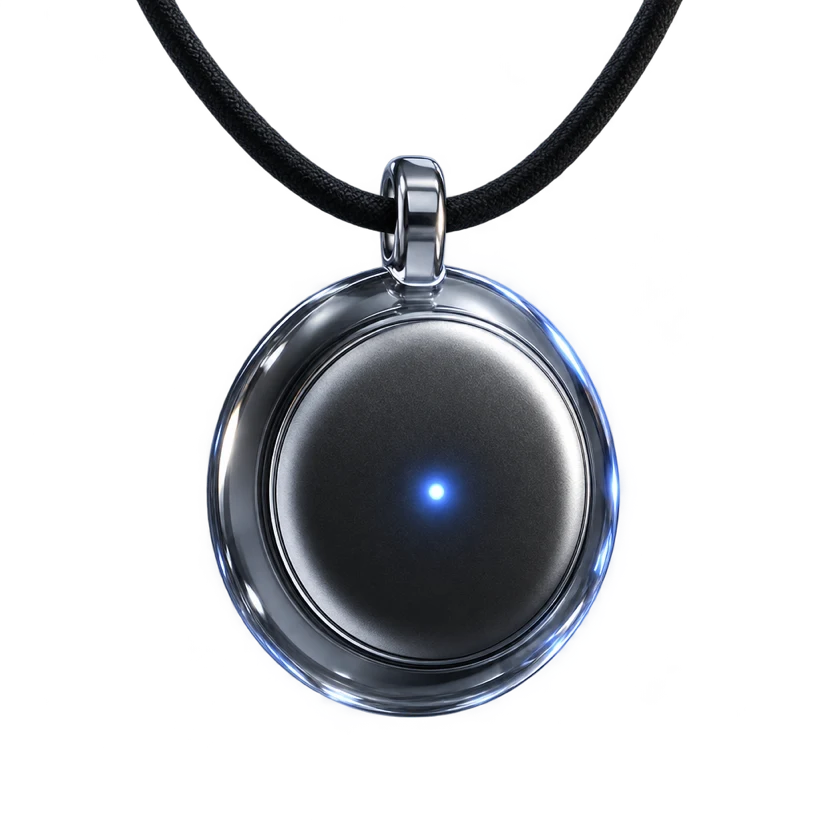
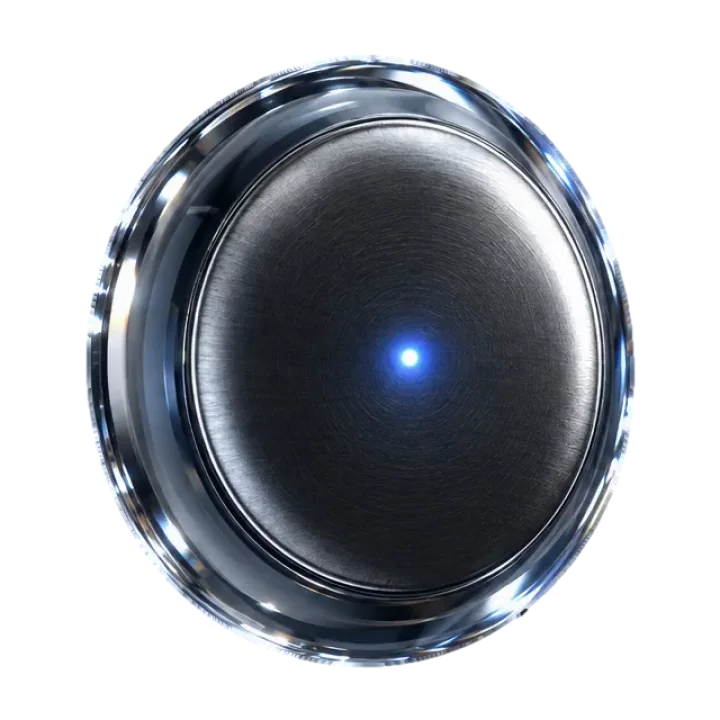
MIRA: imagen nueva más realista, el disco solo y sin collar

diff --git a/assets/styles.css b/assets/styles.css
@@ -2983,3 +2983,6 @@ html:not(.js) .stc{opacity:1;transform:none}
 .cm-c::before{content:"";position:absolute;left:0;top:18px;bottom:18px;width:3px;border-radius:3px;background:var(--nx);box-shadow:0 0 10px var(--nx);opacity:.9}
 .cm-r:last-child .cm-c{font-weight:600;color:var(--deep)}
 @media (max-width:900px){.cm-top{display:none}.cm-r{grid-template-columns:1fr;padding:18px 0}.cm-l{padding:0 22px 6px;color:var(--accent-ink)}.cm-c{display:flex;flex-direction:column;border-left:0;padding:12px 22px 12px 32px}.cm-c::before{left:18px;top:10px;bottom:10px}.cm-c::after{content:attr(data-l);display:block;order:-1;margin-bottom:2px;font:700 .8rem var(--f-sans);color:var(--ink)}}
+
+/* MIRA: el disco solo, sin collar, más grande y con tilt 3D */
+.mira-pd{width:68%;margin:-34% 0 0 -34%;top:55%}

diff --git a/base.html b/base.html
@@ -253,7 +253,7 @@
       <div class="mira-stage" aria-hidden="true">
         <span class="mr r1"></span><span class="mr r2"></span><span class="mr r3"></span>
         <span class="mira-glow"></span>
-        <img class="mira-pd" src="/assets/img/mira/mira-colgante.webp" alt="" width="820" height="820" loading="lazy" decoding="async">
+        <img class="mira-pd" src="/assets/img/mira/mira-colgante.webp" alt="" width="720" height="720" loading="lazy" decoding="async">
         <span class="mira-chip c1">Reuniones</span><span class="mira-chip c2">Consultas</span><span class="mira-chip c3">Llamadas</span>
       </div>
     </div>

diff --git a/index.html b/index.html
@@ -341,7 +341,7 @@
       <div class="mira-stage" aria-hidden="true">
         <span class="mr r1"></span><span class="mr r2"></span><span class="mr r3"></span>
         <span class="mira-glow"></span>
-        <img class="mira-pd" src="/assets/img/mira/mira-colgante.webp" alt="" width="820" height="820" loading="lazy" decoding="async">
+        <img class="mira-pd" src="/assets/img/mira/mira-colgante.webp" alt="" width="720" height="720" loading="lazy" decoding="async">
         <span class="mira-chip c1">Reuniones</span><span class="mira-chip c2">Consultas</span><span class="mira-chip c3">Llamadas</span>
       </div>
     </div>

diff --git a/src/partials/mira-hook.html b/src/partials/mira-hook.html
@@ -17,7 +17,7 @@
       <div class="mira-stage" aria-hidden="true">
         <span class="mr r1"></span><span class="mr r2"></span><span class="mr r3"></span>
         <span class="mira-glow"></span>
-        <img class="mira-pd" src="/assets/img/mira/mira-colgante.webp" alt="" width="820" height="820" loading="lazy" decoding="async">
+        <img class="mira-pd" src="/assets/img/mira/mira-colgante.webp" alt="" width="720" height="720" loading="lazy" decoding="async">
         <span class="mira-chip c1">Reuniones</span><span class="mira-chip c2">Consultas</span><span class="mira-chip c3">Llamadas</span>
       </div>
     </div>
